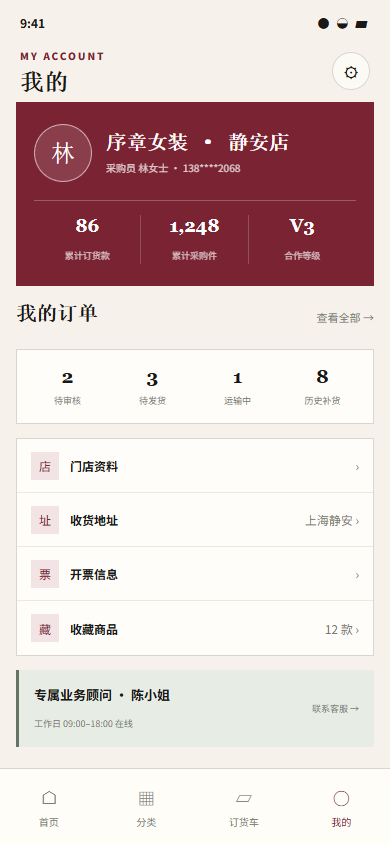
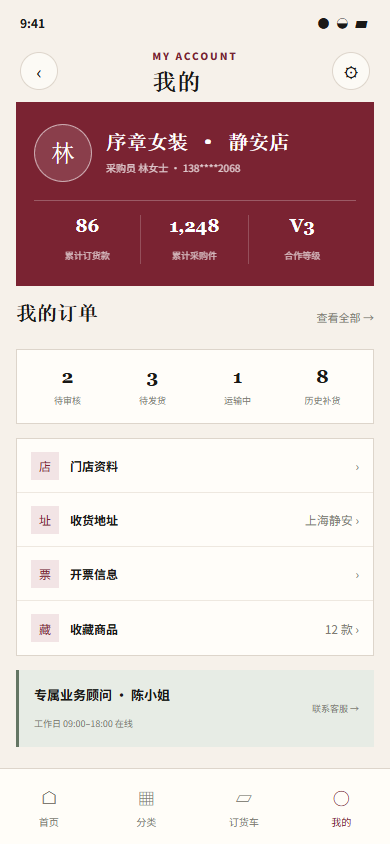
fix: return all prototype pages to home

Changed region(s): [[0.4, 0.0616, 0.6154, 0.1232], [0.0308, 0.0616, 0.2462, 0.1232]]

diff --git a/axhub-prototype/cart.html b/axhub-prototype/cart.html
@@ -11,7 +11,7 @@
     <main class="screen">
       <div class="status"><span>9:41</span><span class="status-icons">● ◒ ▰</span></div>
       <header class="topbar">
-        <a class="back-btn" href="product.html">‹</a>
+        <a class="back-btn" href="home.html">‹</a>
         <div><p class="eyebrow">ORDER BAG</p><h1 class="page-title">订货车</h1></div>
         <span class="text-link">管理</span>
       </header>
@@ -51,4 +51,3 @@
   </div>
 </body>
 </html>
-

diff --git a/axhub-prototype/checkout.html b/axhub-prototype/checkout.html
@@ -11,7 +11,7 @@
     <main class="screen">
       <div class="status"><span>9:41</span><span class="status-icons">● ◒ ▰</span></div>
       <header class="topbar">
-        <a class="back-btn" href="cart.html">‹</a>
+        <a class="back-btn" href="home.html">‹</a>
         <div><p class="eyebrow">CHECKOUT</p><h1 class="page-title">确认订单</h1></div>
         <span></span>
       </header>
@@ -52,4 +52,3 @@
   </div>
 </body>
 </html>
-

diff --git a/axhub-prototype/product.html b/axhub-prototype/product.html
@@ -11,7 +11,7 @@
     <main class="screen">
       <div class="status"><span>9:41</span><span class="status-icons">● ◒ ▰</span></div>
       <header class="topbar">
-        <a class="back-btn" href="catalog.html">‹</a>
+        <a class="back-btn" href="home.html">‹</a>
         <h1 class="page-title">商品详情</h1>
         <a class="icon-btn" href="cart.html">袋</a>
       </header>
@@ -45,4 +45,3 @@
   </div>
 </body>
 </html>
-

diff --git a/axhub-prototype/profile.html b/axhub-prototype/profile.html
@@ -11,6 +11,7 @@
     <main class="screen">
       <div class="status"><span>9:41</span><span class="status-icons">● ◒ ▰</span></div>
       <header class="topbar">
+        <a class="back-btn" href="home.html">‹</a>
         <div><p class="eyebrow">MY ACCOUNT</p><h1 class="page-title">我的</h1></div>
         <span class="icon-btn">⚙</span>
       </header>
